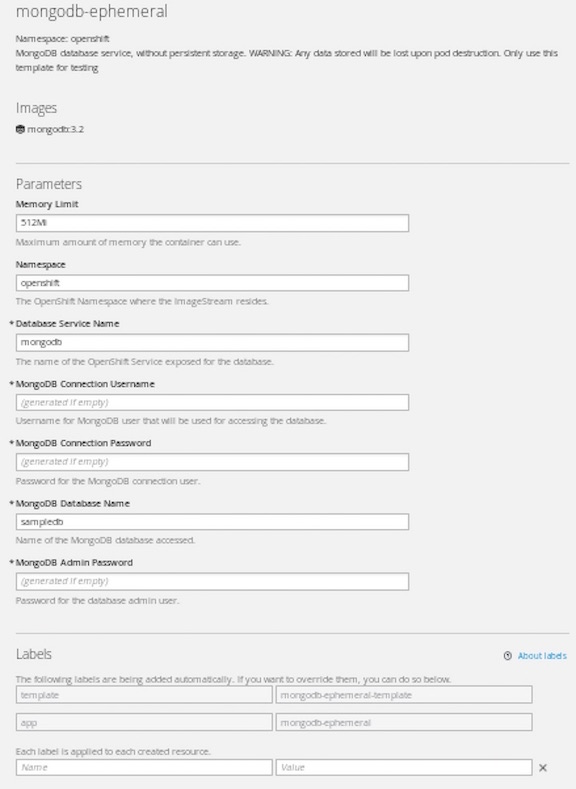
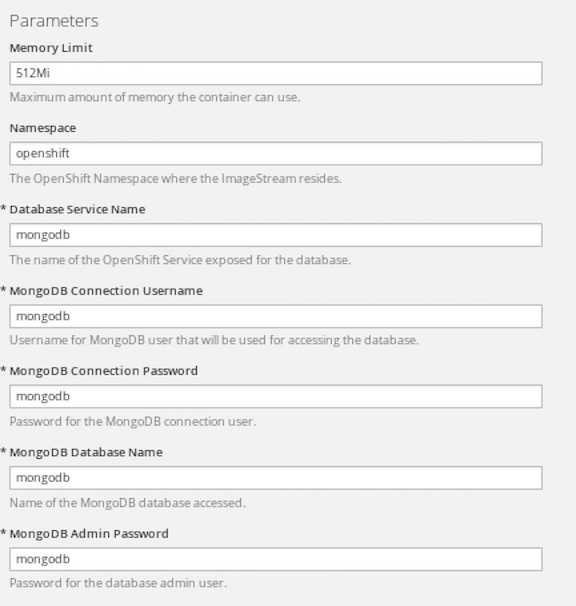
added

diff --git a/4. Adding a Database.md b/4. Adding a Database.md
@@ -29,23 +29,24 @@ This exercise will walk you thought how to add a database for an application
 2. Select cisco_ldap_provider under Log in with...
 3. Enter your LDAP id and password
 4. Click login if you are not login
-5. Click on your project name `username-proj` must use your own username as part of your project name. 
-6. From the Browse Catalog, type `mongodb`, the Databases options shows in the list
+5. Click on your project name `username-proj` that you created from Lab #3
+6. Click `Add to Project` from the top menu
+7. From the Browse Catalog, type `mongodb`, the Databases options shows in the list
 ![image](images/mongodbList.jpg)
-7. Click onto `mongodb-ephemeral`
+8. Click onto `mongodb-ephemeral`
 You can see that some of the fields say "generated if empty". This is a feature of Templates in OpenShift that will be covered in the next lab. For now, let's use the following values:
 	* MONGODB_USER : mongodb
 	* MONGODB_PASSWORD : mongodb
 	* MONGODB_DATABASE: mongodb
 	* MONGODB_ADMIN_PASSWORD : mongodb
 ![image](images/mongodb.jpg)
-8. Click Create
-9. Click `Continue to Review` and it will bring you back to Overview page
-10. Click `View Log` in MONGODB section
-11.  Click `Overview` on left nav 
-12. Click `Group Service` button in the “javaapp” —> select mongodb from the list
-13. Click `OK`
-14. Now they are linked together. Click `Application` in left nav → deployment → click onto javaapp deployment
+9. Click Create
+10. Click `Continue to Review` and it will bring you back to Overview page
+11. Click `View Log` in MONGODB section
+12.  Click `Overview` on left nav 
+13. Click `Group Service` button in the “javaapp” —> select mongodb from the list
+14. Click `OK`
+15. Now they are linked together. Click `Application` in left nav → deployment → click onto javaapp deployment
 OpenShift Container Platform deployments provide fine-grained management over applications based on a user-defined template called a deployment configuration. The deployment system in response to a deployment configuration will create a replication controller to run an application. Replication controllers are created manually or in response to triggered events.
 A deployment configuration consists of the following key parts:
 	* A pod template, which describes the application to be deployed.
@@ -53,14 +54,14 @@ A deployment configuration consists of the following key parts:
 	* deployment strategy, which will be used to deploy the application.
 	* set of triggers, which cause replication controllers to be created automatically.
 	* set of hooks for executing custom behavior in different points during the lifecycle of a deployment.
-15. Click `Environment` tab to add environment variable
+16. Click `Environment` tab to add environment variable
 MONGODB_USER : mongodb
 MONGODB_PASSWORD : mongodb
 MONGODB_DATABASE : mongodb
-16. Click `Overview` on left nav and javaapp is alread redeploying
-17. Click onto the route to test the application.
+17. Click `Overview` on left nav and javaapp is alread redeploying
+18. Click onto the route to test the application.
 ***add final pictures***
-18. Congrats! you have added a database to your application on OpenShift.
+19. Congrats! you have added a database to your application on OpenShift.
 
 
 
